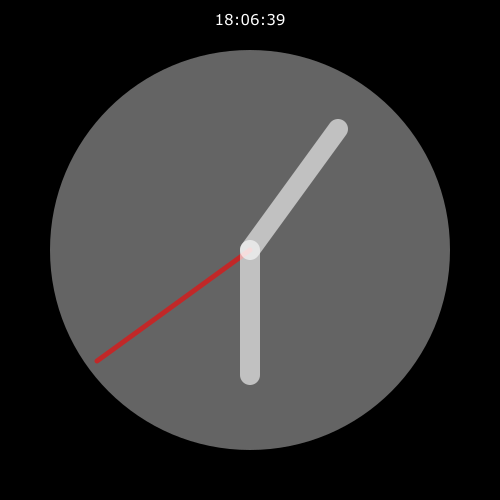
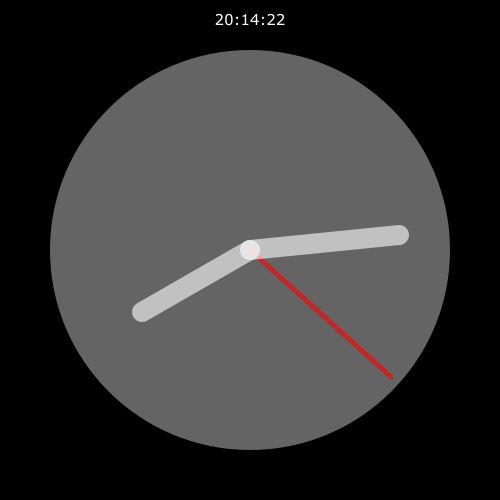
cmd/codepicdeck: tweaks

diff --git a/cmd/codepicdeck/code/clock.go b/cmd/codepicdeck/code/clock.go
@@ -34,9 +34,9 @@ func main() {
 	canvas.Text(w2, 25, fmt.Sprintf("%02d:%02d:%02d", h, m, s), "text-anchor:middle;font-size:12pt;fill:white")
 	canvas.Circle(w2, h2, facepct, canvas.RGB(100, 100, 100))
 	canvas.Gstyle("stroke:white;stroke-width:20;stroke-opacity:0.6;stroke-linecap:round")
-	canvas.Line(w2, h2, int(math.Cos(sec)*secpct)+w2, int(math.Sin(sec)*secpct)+w2, "stroke:red;stroke-width:5")
-	canvas.Line(w2, h2, int(math.Cos(min)*minpct)+w2, int(math.Sin(min)*minpct)+w2)
-	canvas.Line(w2, h2, int(math.Cos(hour)*hourpct)+w2, int(math.Sin(hour)*hourpct)+w2)
+	canvas.Line(w2, h2, int(math.Cos(sec)*secpct)+w2, int(math.Sin(sec)*secpct)+h2, "stroke:red;stroke-width:5")
+	canvas.Line(w2, h2, int(math.Cos(min)*minpct)+w2, int(math.Sin(min)*minpct)+h2)
+	canvas.Line(w2, h2, int(math.Cos(hour)*hourpct)+w2, int(math.Sin(hour)*hourpct)+h2)
 	canvas.Gend()
 	canvas.End()
 }

diff --git a/cmd/codepicdeck/code/recurse.go b/cmd/codepicdeck/code/recurse.go
@@ -11,10 +11,12 @@ var (
 	canvas = svg.New(os.Stdout)
 	width  = 500
 	height = 500
+	maxlevel = 5
+	colors = []string{"red", "orange", "yellow", "green", "blue"}
 )
 
 func branch(x, y, r, level int) {
-	astyle := fmt.Sprintf("fill:none;stroke:rgb(0,130,164);stroke-width:%dpx", level*2)
+	astyle := fmt.Sprintf("fill:none;stroke:%s;stroke-width:%dpx", colors[level%maxlevel], level*2)
 	canvas.Arc(x-r, y, r, r, 0, true, true, x+r, y, astyle)
 	if level > 0 {
 		branch(x-r, y+r/2, r/2, level-1)
@@ -25,6 +27,6 @@ func branch(x, y, r, level int) {
 // Example from "Generative Design", pg 414
 func main() {
 	canvas.Start(width, height)
-	branch(0, 0, 250, 6)
+	branch(0, 0, width/2, 6)
 	canvas.End()
 }

diff --git a/cmd/codepicdeck/code/eclipse.go b/cmd/codepicdeck/code/eclipse.go
@@ -14,11 +14,12 @@ var (
 
 func main() {
 	h2 := height / 2
+	r := width/20
 	canvas.Start(width, height)
 	canvas.Rect(0, 0, width, height)
 	for x, y := 50, h2; x < 450; x += 75 {
-		canvas.Ellipse(x, h2, 25, 25, "fill:white")
-		canvas.Ellipse(x, y, 25, 25, "fill:black")
+		canvas.Circle(x, h2, r+1, "fill:white")
+		canvas.Circle(x, y, r, "fill:black")
 		y += 10
 	}
 	canvas.End()

diff --git a/cmd/codepicdeck/code/concentric.go b/cmd/codepicdeck/code/concentric.go
@@ -14,11 +14,11 @@ var (
 
 func main() {
 	canvas.Start(width, height)
-	canvas.Rect(0, 0, width, height)
+	canvas.Rect(0, 0, width, height, "fill:white")
 	r := height / 2
-	for g := 150; g < 255; g += 30 {
+	for g := 0; g < 250; g += 50 {
 		canvas.Circle(width/2, width/2, r, canvas.RGB(g, g, g))
-		r -= 60
+		r -= 50
 	}
 	canvas.End()
 }
